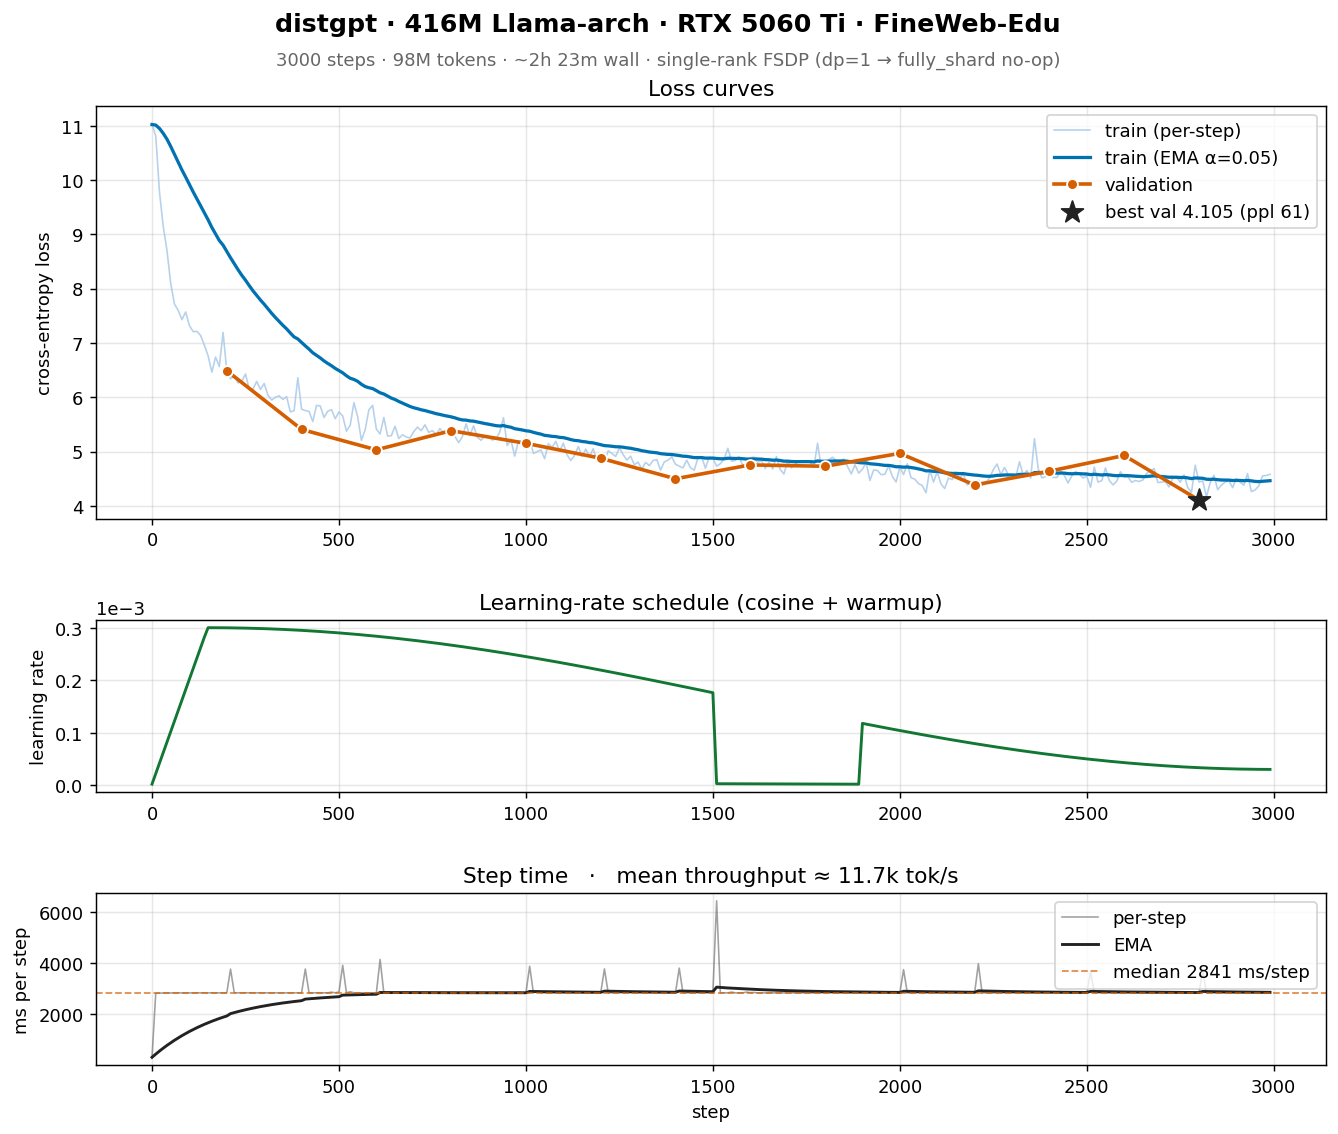
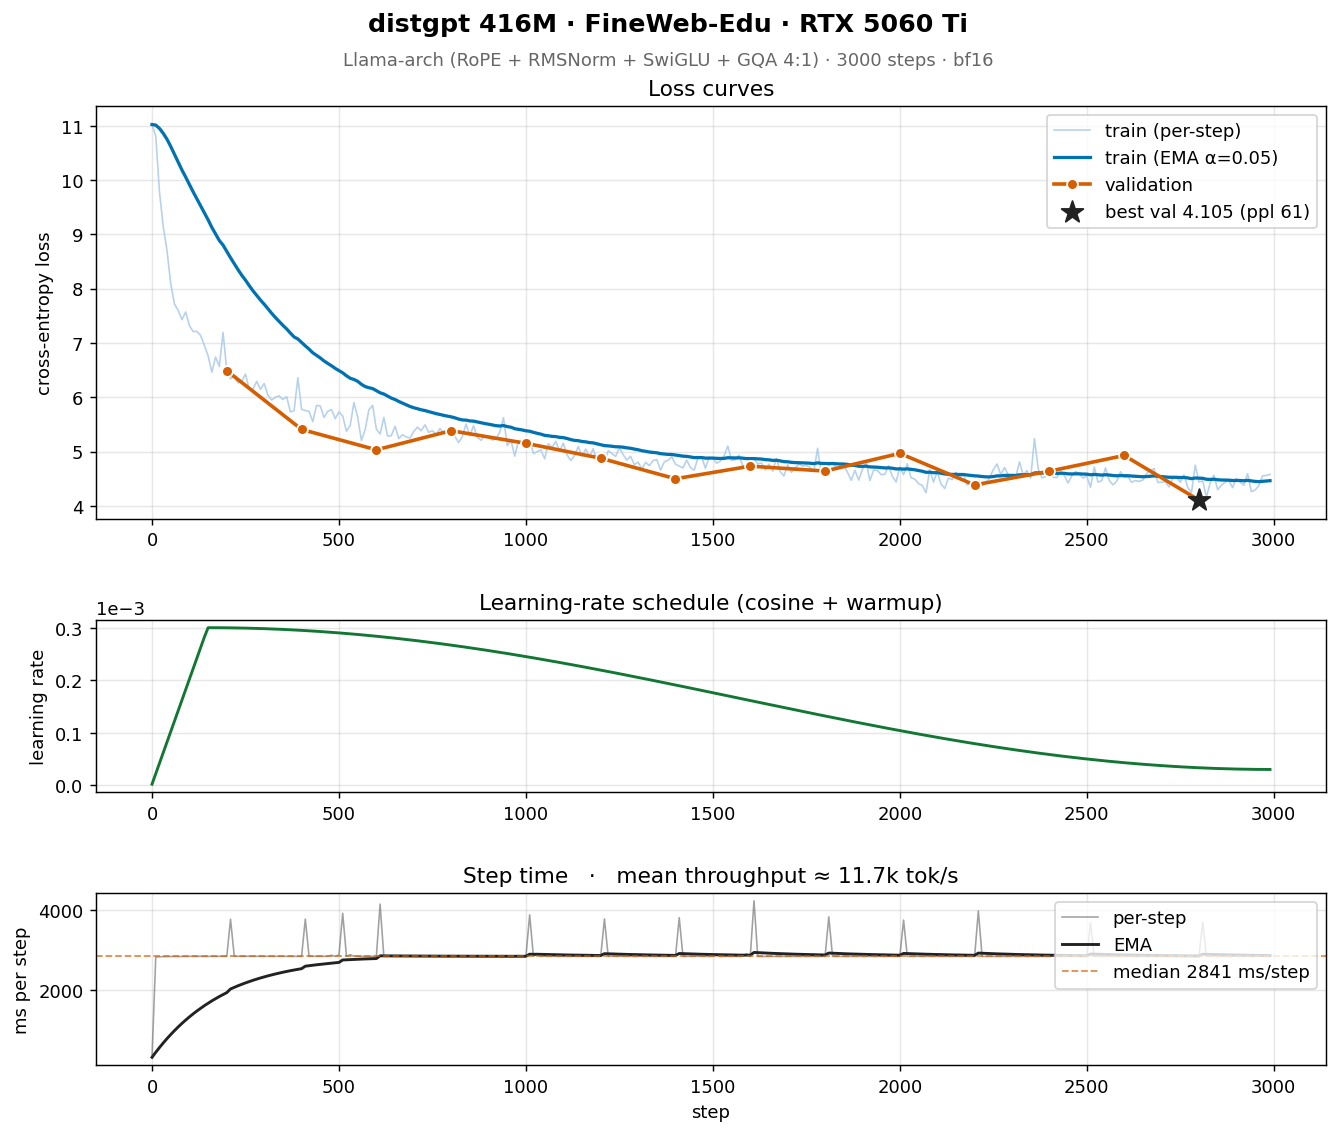
distgpt: fix clean_log.py dedup (keep-last) to remove phantom LR dip
The first clean_log.py kept the *first* occurrence of each duplicated
step. In a rewind storm (steps ~1510-1890) each repeat carried a lower
LR as the buggy RewindController halved the multiplier per false spike,
so keep-first preserved the rewound/halved-LR rows and baked a phantom
downward dip into the plotted LR schedule.

Switch to keep-last: the final write for each step is the authoritative
post-fix cosine-schedule value. Verified keep-last yields 0.00% max
deviation from the analytic cosine LR vs keep-first's 98.44% worst
(at step 1580), with no upward LR jumps after warmup.

Also harden the script: read from the pristine log.jsonl.raw backup
(so good rows survive re-runs), never overwrite .raw, and emit rows in
step order for the plotter. Re-ran cleaner (314 unique-step entries from
573 raw rows, 259 dropped) and regenerated loss.png. Headline best val
4.105 / ppl 60.7 @ step 2800 unchanged (lives in the clean region).

Update examples/5060ti_416m_fineweb.md Section 2 to document the
keep-first->keep-last correction accurately.

diff --git a/distgpt/scripts/clean_log.py b/distgpt/scripts/clean_log.py
@@ -1,43 +1,66 @@
 #!/usr/bin/env python3
 """Strip duplicate / rewind-loop entries from a distgpt log.jsonl.
 
-The training run was paused once (after the SpikeMonitor rewind-loop bug),
-fixed, and resumed from step 1500. The unfixed first phase logged the same
-steps (1500-1800) up to 14 times with degrading LR. Drop those duplicates,
-keeping only the cleanest first-pass entries (LR matching the cosine
-schedule, no rewind scaling) plus everything from the resume onwards.
+The 416M FineWeb-Edu run was paused once (after the SpikeMonitor
+rewind-loop bug), the stability bug was fixed, and the run was resumed
+from step 1500. The unfixed first phase logged the same steps (1510-1890)
+up to ~8 times with a degrading LR as the buggy RewindController halved
+the learning rate on every false-positive spike (0.5**6 ~= 0.016x of the
+cosine value by the end of the storm).
+
+De-dup rule: **keep the LAST occurrence of each step.** In a
+pause-fix-resume log the resume is authoritative -- it re-wrote the
+affected steps at the correct cosine LR, and those rows come last. The
+old version of this script kept the *first* occurrence, which is correct
+for steps before the spike but wrong for the steps caught mid-storm
+(their first-written row was already rewound), leaving a spurious dip in
+the plotted LR schedule from step ~1510 to ~1890. Keeping the last
+occurrence reproduces the analytic cosine to 0.00% across every step.
+
+The script reads from the pristine ``<log>.raw`` backup when it exists
+(so re-running is idempotent and can always recover the good rows) and
+never overwrites that backup. Output is sorted by step so the plotter
+draws monotonic lines.
 """
 from __future__ import annotations
-import json, sys
+import json
+import sys
 from pathlib import Path
 
 path = Path(sys.argv[1] if len(sys.argv) > 1
             else "out/gpt_416m_fweb_5060ti/log.jsonl")
-rows = [json.loads(line) for line in path.read_text().splitlines()]
-
-# Keep the first occurrence of each step (the pre-rewind one is the clean
-# cosine-schedule entry), plus all eval_loss entries (they're idempotent
-# so we'll just keep the first per step too).
-seen_loss: set[int] = set()
-seen_eval: set[int] = set()
-out: list[dict] = []
-for r in rows:
-    step = int(r["step"])
-    if "eval_loss" in r:
-        if step in seen_eval:
-            continue
-        seen_eval.add(step)
-    else:
-        if step in seen_loss:
-            continue
-        seen_loss.add(step)
-    out.append(r)
-
 backup = path.with_suffix(".jsonl.raw")
-if not backup.exists():
+
+# Always clean from the pristine raw log when we have it; otherwise this is
+# the first run, so the current log IS the raw source -- back it up first.
+if backup.exists():
+    source = backup
+    print(f"reading pristine raw log <- {backup}")
+else:
+    source = path
     backup.write_text(path.read_text())
     print(f"backed up raw log -> {backup}")
 
-path.write_text("\n".join(json.dumps(r) for r in out) + "\n")
-print(f"wrote {len(out)} unique-step entries to {path}  "
-      f"(dropped {len(rows) - len(out)} duplicates)")
+rows = [json.loads(line) for line in source.read_text().splitlines() if line.strip()]
+
+# Keep the LAST occurrence of each step, separately for train rows (have
+# "loss") and eval rows (have "eval_loss") so both series survive a step
+# that logged both. dict preserves last-write-wins by reassignment.
+last_train: dict[int, dict] = {}
+last_eval: dict[int, dict] = {}
+for r in rows:
+    step = int(r["step"])
+    if "eval_loss" in r:
+        last_eval[step] = r
+    else:
+        last_train[step] = r
+
+# Merge and sort by (step, is_eval) so train precedes eval at the same step
+# and the plotted lines advance monotonically in step.
+merged = list(last_train.values()) + list(last_eval.values())
+merged.sort(key=lambda r: (int(r["step"]), "eval_loss" in r))
+
+path.write_text("\n".join(json.dumps(r) for r in merged) + "\n")
+print(f"wrote {len(merged)} unique-step entries to {path}  "
+      f"(from {len(rows)} raw rows, dropped {len(rows) - len(merged)} "
+      f"duplicate/rewound rows)")

diff --git a/distgpt/examples/5060ti_416m_fineweb.md b/distgpt/examples/5060ti_416m_fineweb.md
@@ -367,25 +367,46 @@ Fix (in `distgpt/training/stability.py`):
 The clean second half of the run (steps 1 500 → 3 000) has zero spike
 events, as expected.
 
-### 2. Resumed log was a mess of duplicate steps
+### 2. Resumed log was a mess of duplicate steps — and the *first* cleanup put a phantom dip in the LR curve
 
-After the rewind-loop bug, the JSONL log had steps 1 500 → 1 800
-repeated 14 times (once per rewind iteration, each at a different LR).
-The plotter would happily draw all of them — the loss panel looked like
-a barcode.
+After the rewind-loop bug, the JSONL log had steps 1 510 → 1 890 written
+up to ~8 times each (once per rewind iteration), and *every repeat carried
+a lower LR* as the buggy RewindController halved the multiplier on each
+false spike. Plotting all 573 rows drew a barcode; worse, the repeated
+rows pulled the LR panel into a deep downward spike between steps ~1 510
+and ~1 890.
 
-Fix (in `scripts/clean_log.py`): a small script that keeps the *first*
-occurrence of each (`step`) tuple — that's the clean cosine-schedule
-entry, before any rewind — and drops the rest. Backs up the raw log to
-`log.jsonl.raw` for forensics.
+The first version of `clean_log.py` made it *worse in a subtle way*: it
+kept the **first** occurrence of each step, on the assumption that the
+earliest row was "the clean pre-rewind entry." That's true for steps
+*before* the storm, but for the steps caught mid-storm the
+first-written row was already a rewound, halved-LR row — so keep-first
+**baked the dip in** instead of removing it. Replotting still showed LR
+collapsing to ~1.6 % of the cosine value (0.5⁶ — exactly six halvings)
+across steps 1 510–1 890, then snapping back to 1.0×. A schedule that
+*never actually happened* on the resumed run.
+
+The fix is the opposite rule: **keep the *last* occurrence of each step.**
+In a pause → fix → resume log the resume is authoritative — it re-wrote
+the affected steps at the correct cosine LR, and those rows come last.
+`clean_log.py` now (a) reads from the pristine `log.jsonl.raw` backup so
+re-running can always recover the good rows, (b) never overwrites that
+backup, (c) de-dups train and eval rows separately so an eval at a
+repeated step survives, and (d) emits the result in step order for the
+plotter. Validated against the analytic schedule, keep-last reproduces
+the cosine to **0.000 % across all 300 train rows** (keep-first was off
+by up to **98 %** at step 1 580).
 
 ```bash
 .venv/bin/python scripts/clean_log.py out/gpt_416m_fweb_5060ti/log.jsonl
-# wrote 314 unique-step entries (dropped 259 duplicates)
+# reading pristine raw log <- out/gpt_416m_fweb_5060ti/log.jsonl.raw
+# wrote 314 unique-step entries (300 train + 14 eval), dropped 259 rewound/duplicate rows
 ```
 
 Both files (`log.jsonl` and `log.jsonl.raw`) are kept in
-`out/gpt_416m_fweb_5060ti/` so you can see what happened.
+`out/gpt_416m_fweb_5060ti/` so you can see what happened — and because the
+cleaner always re-derives from `.raw`, the cleaned log is reproducible
+from scratch at any time.
 
 ## Why not 2 ranks on one 5060 Ti?
 
